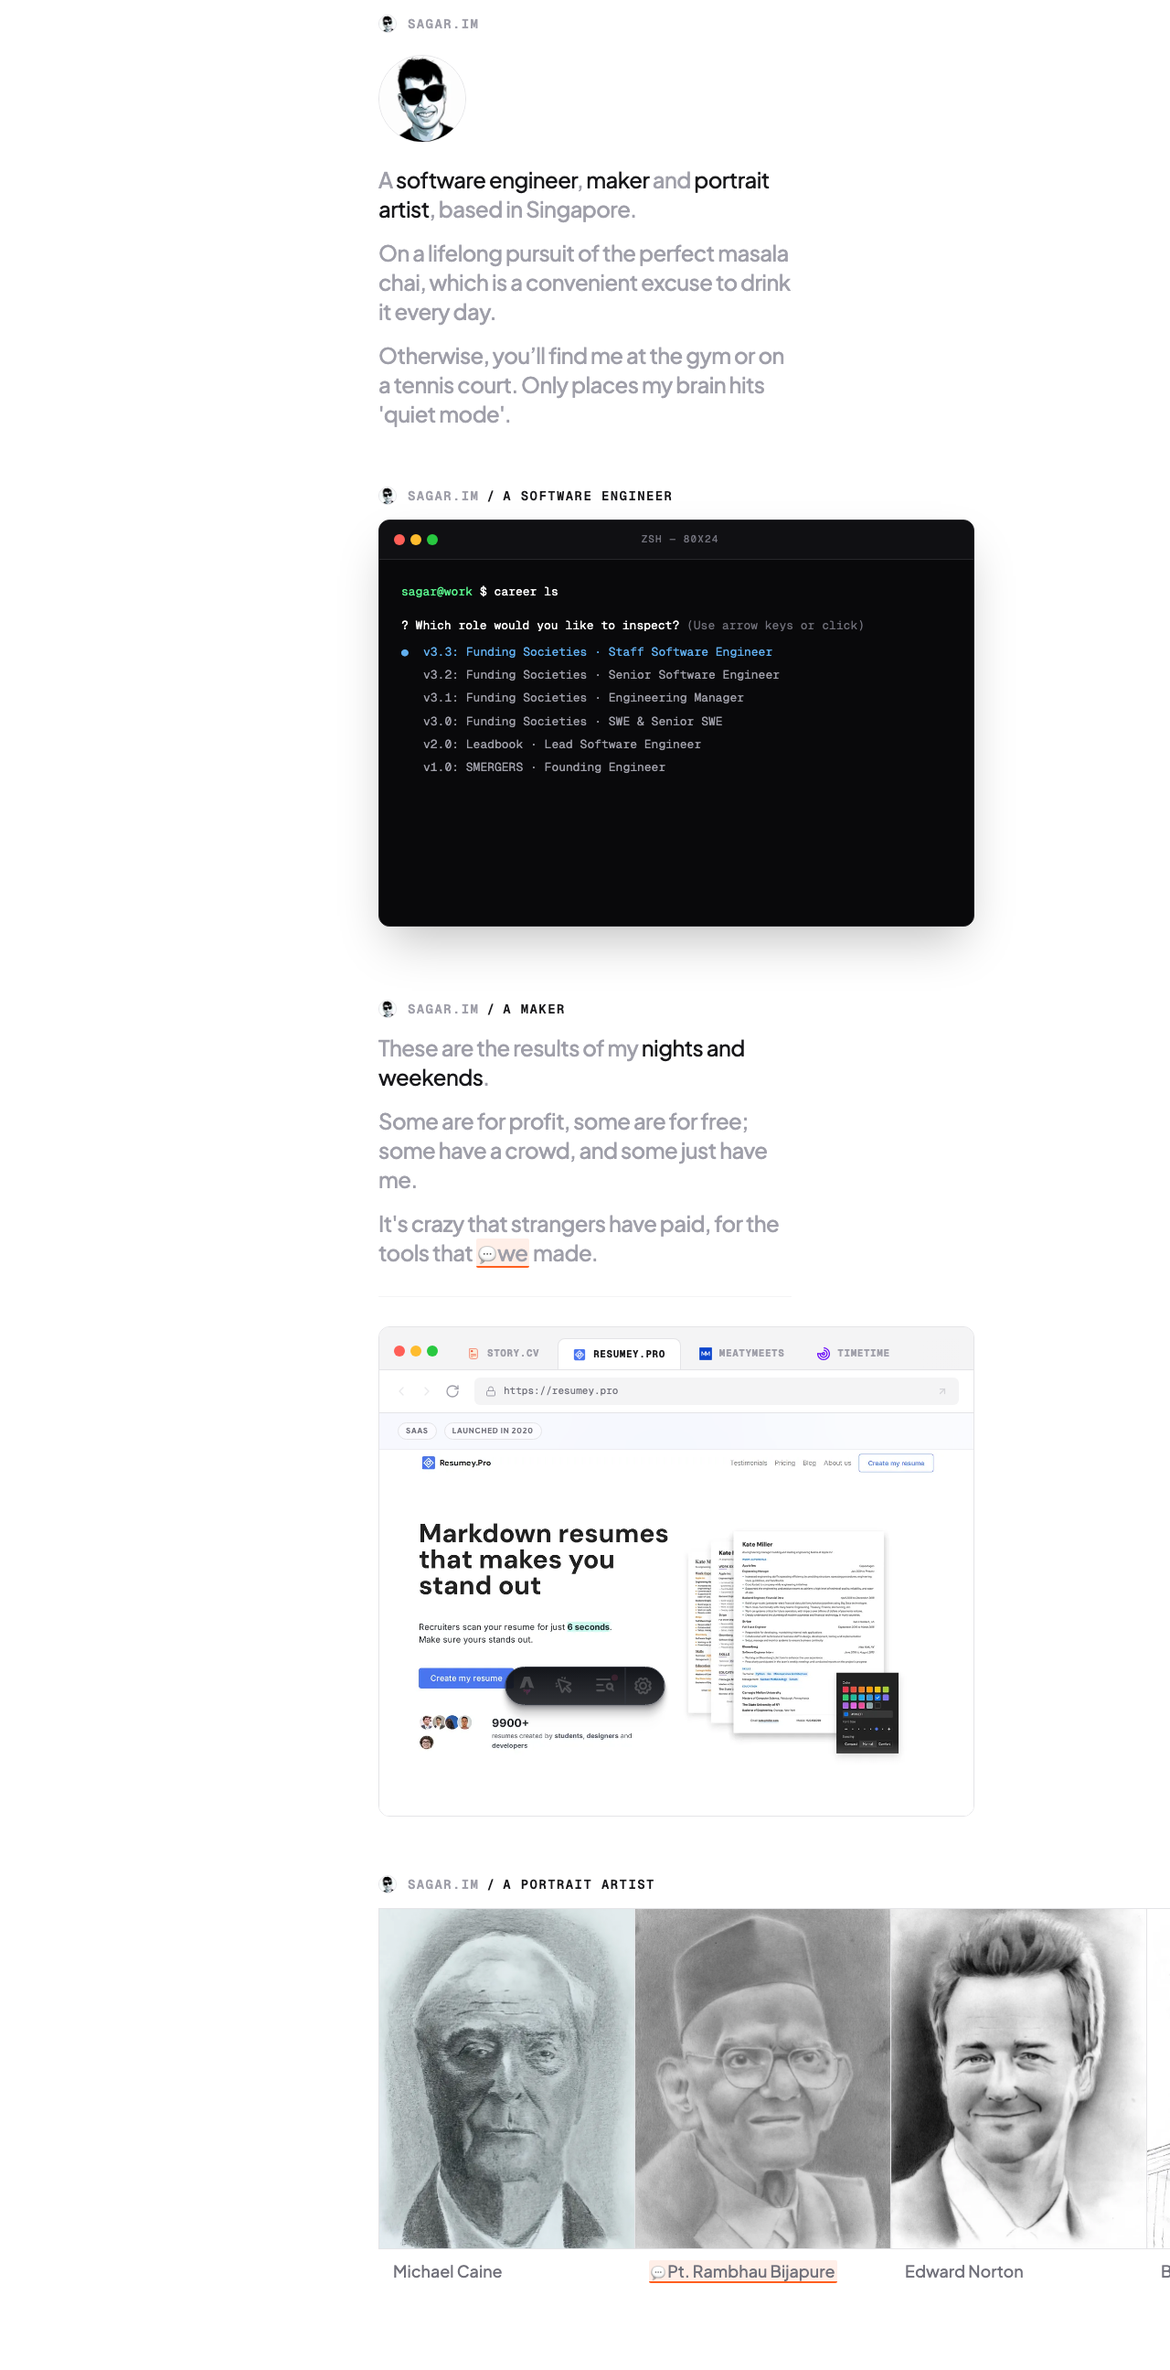
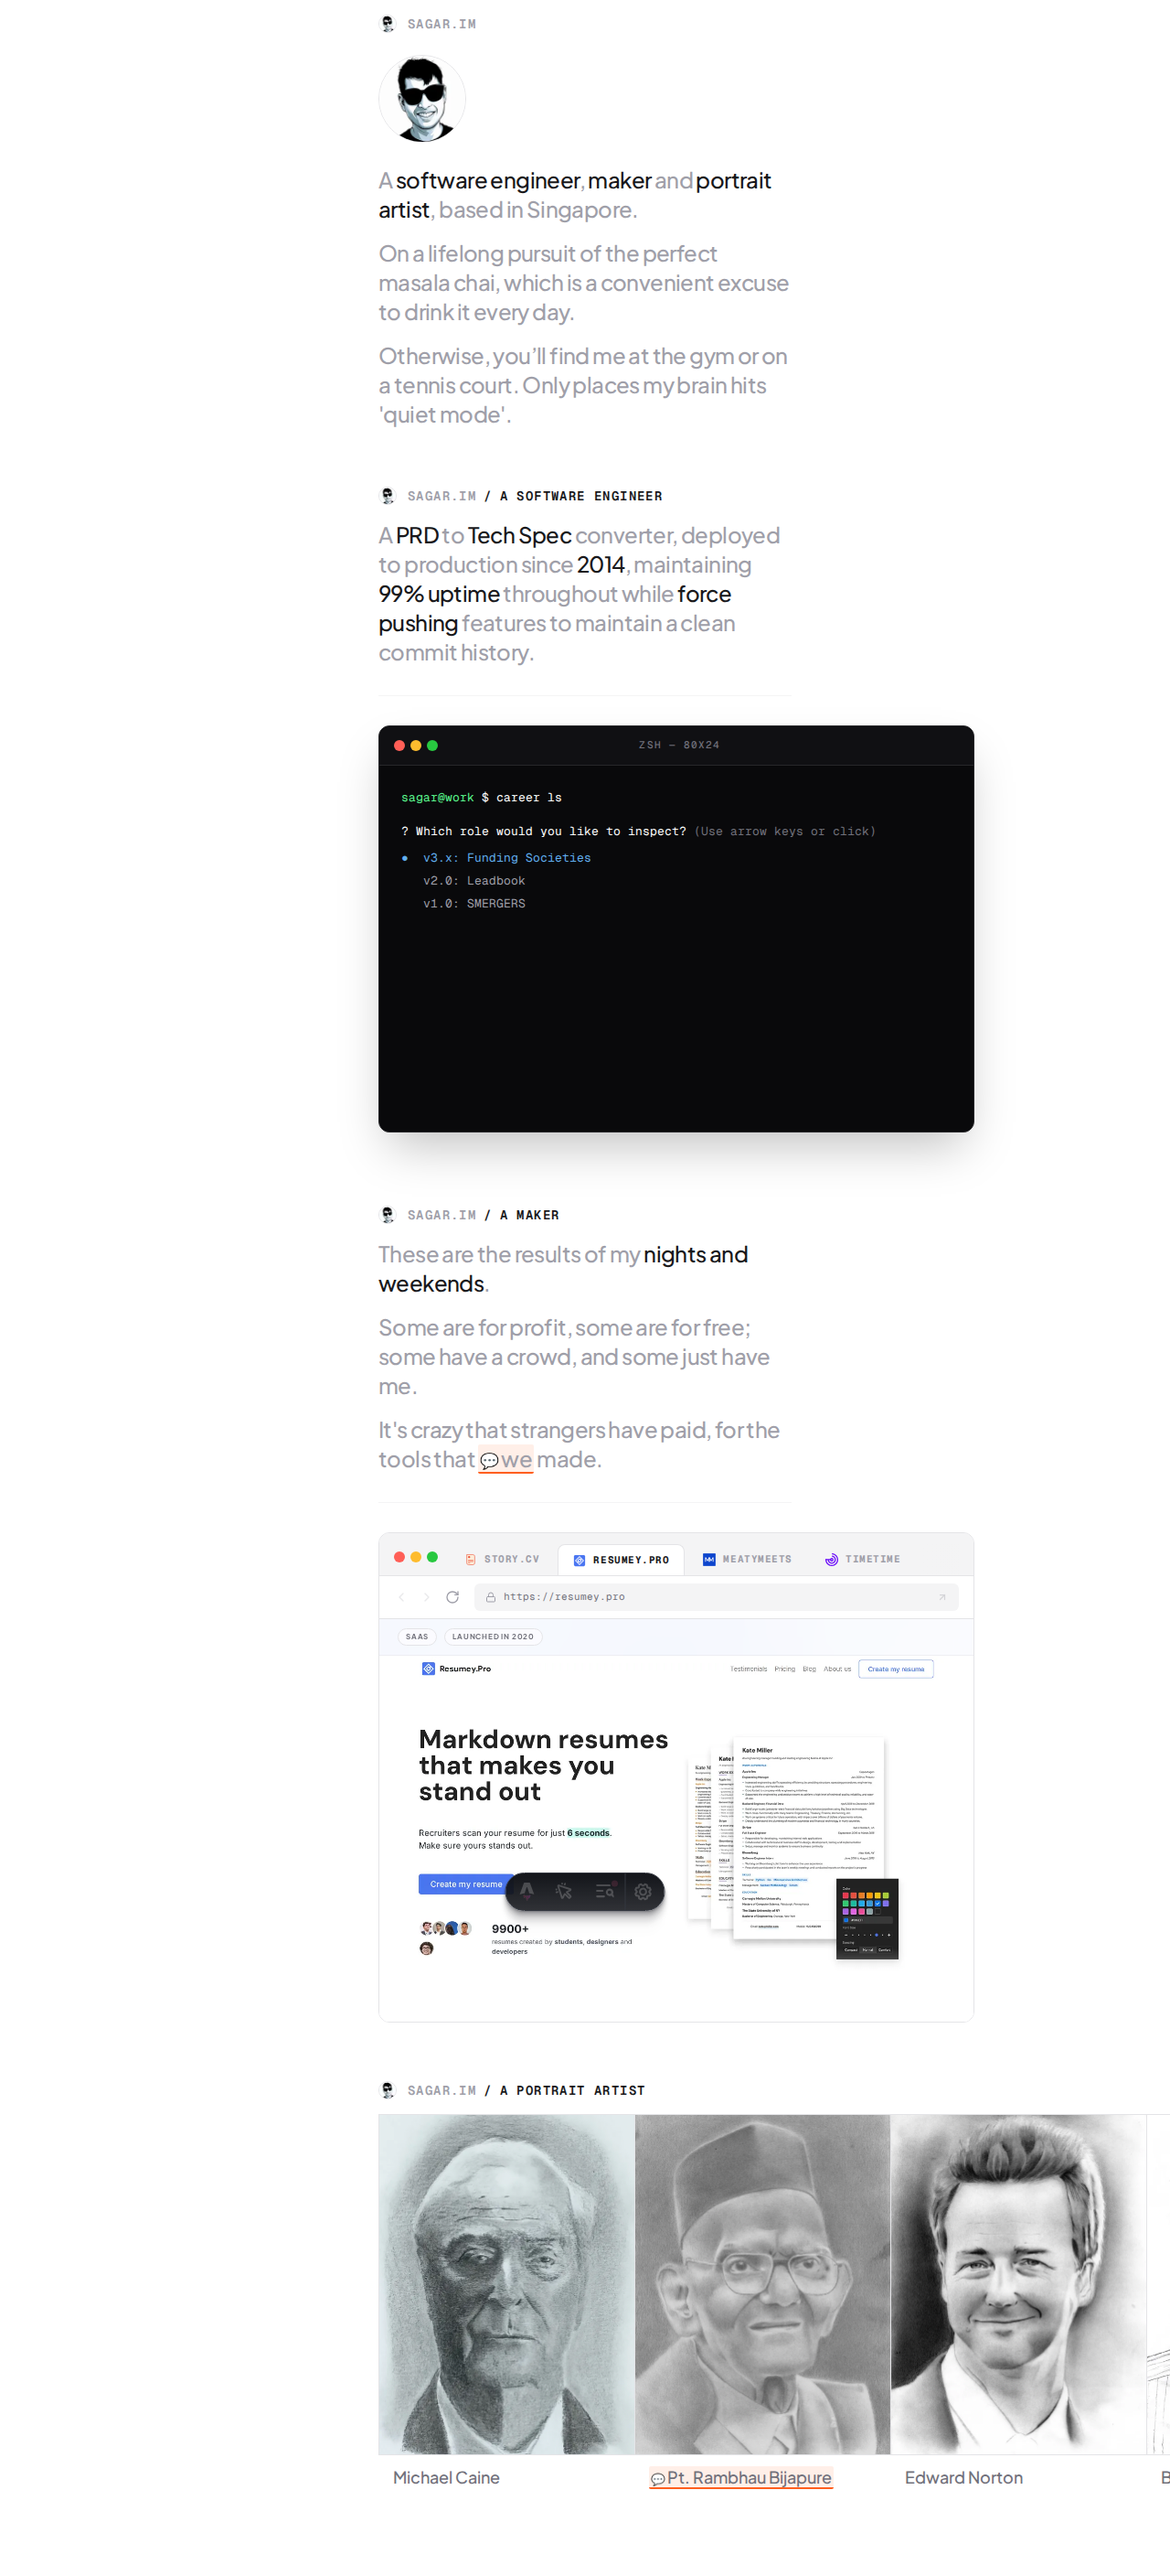
Add description to software engineer section (#28)
* feat: add description to software engineer section

Added a new introductory description to the "a software engineer" section
in `src/pages/index.astro`. The description matches the styling of the
"a maker" section for visual consistency.

Also included a new Playwright test to verify the description and
updated repository screenshots.

* feat: update software engineer description with PRD to Tech Spec converter

Updated the introductory description for the "a software engineer" section
to include "A PRD to Tech Spec converter". Maintained existing styling
and visual consistency.

Updated the Playwright verification test and project screenshots.

---------

Changed region(s): [[0.3125, 0.0, 0.8438, 0.7719], [0.3125, 0.8028, 0.9688, 0.988], [0.9688, 0.8954, 1.0, 0.9263]]

diff --git a/tests/verify-description.spec.ts b/tests/verify-description.spec.ts
@@ -1,0 +1,21 @@
+import { test, expect } from '@playwright/test';
+
+test('verify software engineer description', async ({ page }) => {
+  await page.goto('http://localhost:4321/');
+
+  // Find the header for "a software engineer" - be more specific to avoid multiple matches
+  const sectionHeader = page.locator('div.flex.items-center.font-host').filter({ hasText: 'a software engineer' });
+  await expect(sectionHeader).toBeVisible();
+
+  // Find the description div following the header in the software engineer section
+  const section = page.locator('section').filter({ has: page.locator('div.flex.items-center.font-host:has-text("a software engineer")') });
+  const description = section.locator('div.font-plus.text-zinc-400.text-2xl');
+
+  await expect(description).toContainText('A PRD to Tech Spec converter');
+  await expect(description).toContainText('deployed to production since 2014');
+  await expect(description).toContainText('maintaining 99% uptime');
+  await expect(description).toContainText('force pushing features');
+
+  // Check for the hr
+  await expect(description.locator('hr.border-zinc-100')).toBeVisible();
+});
